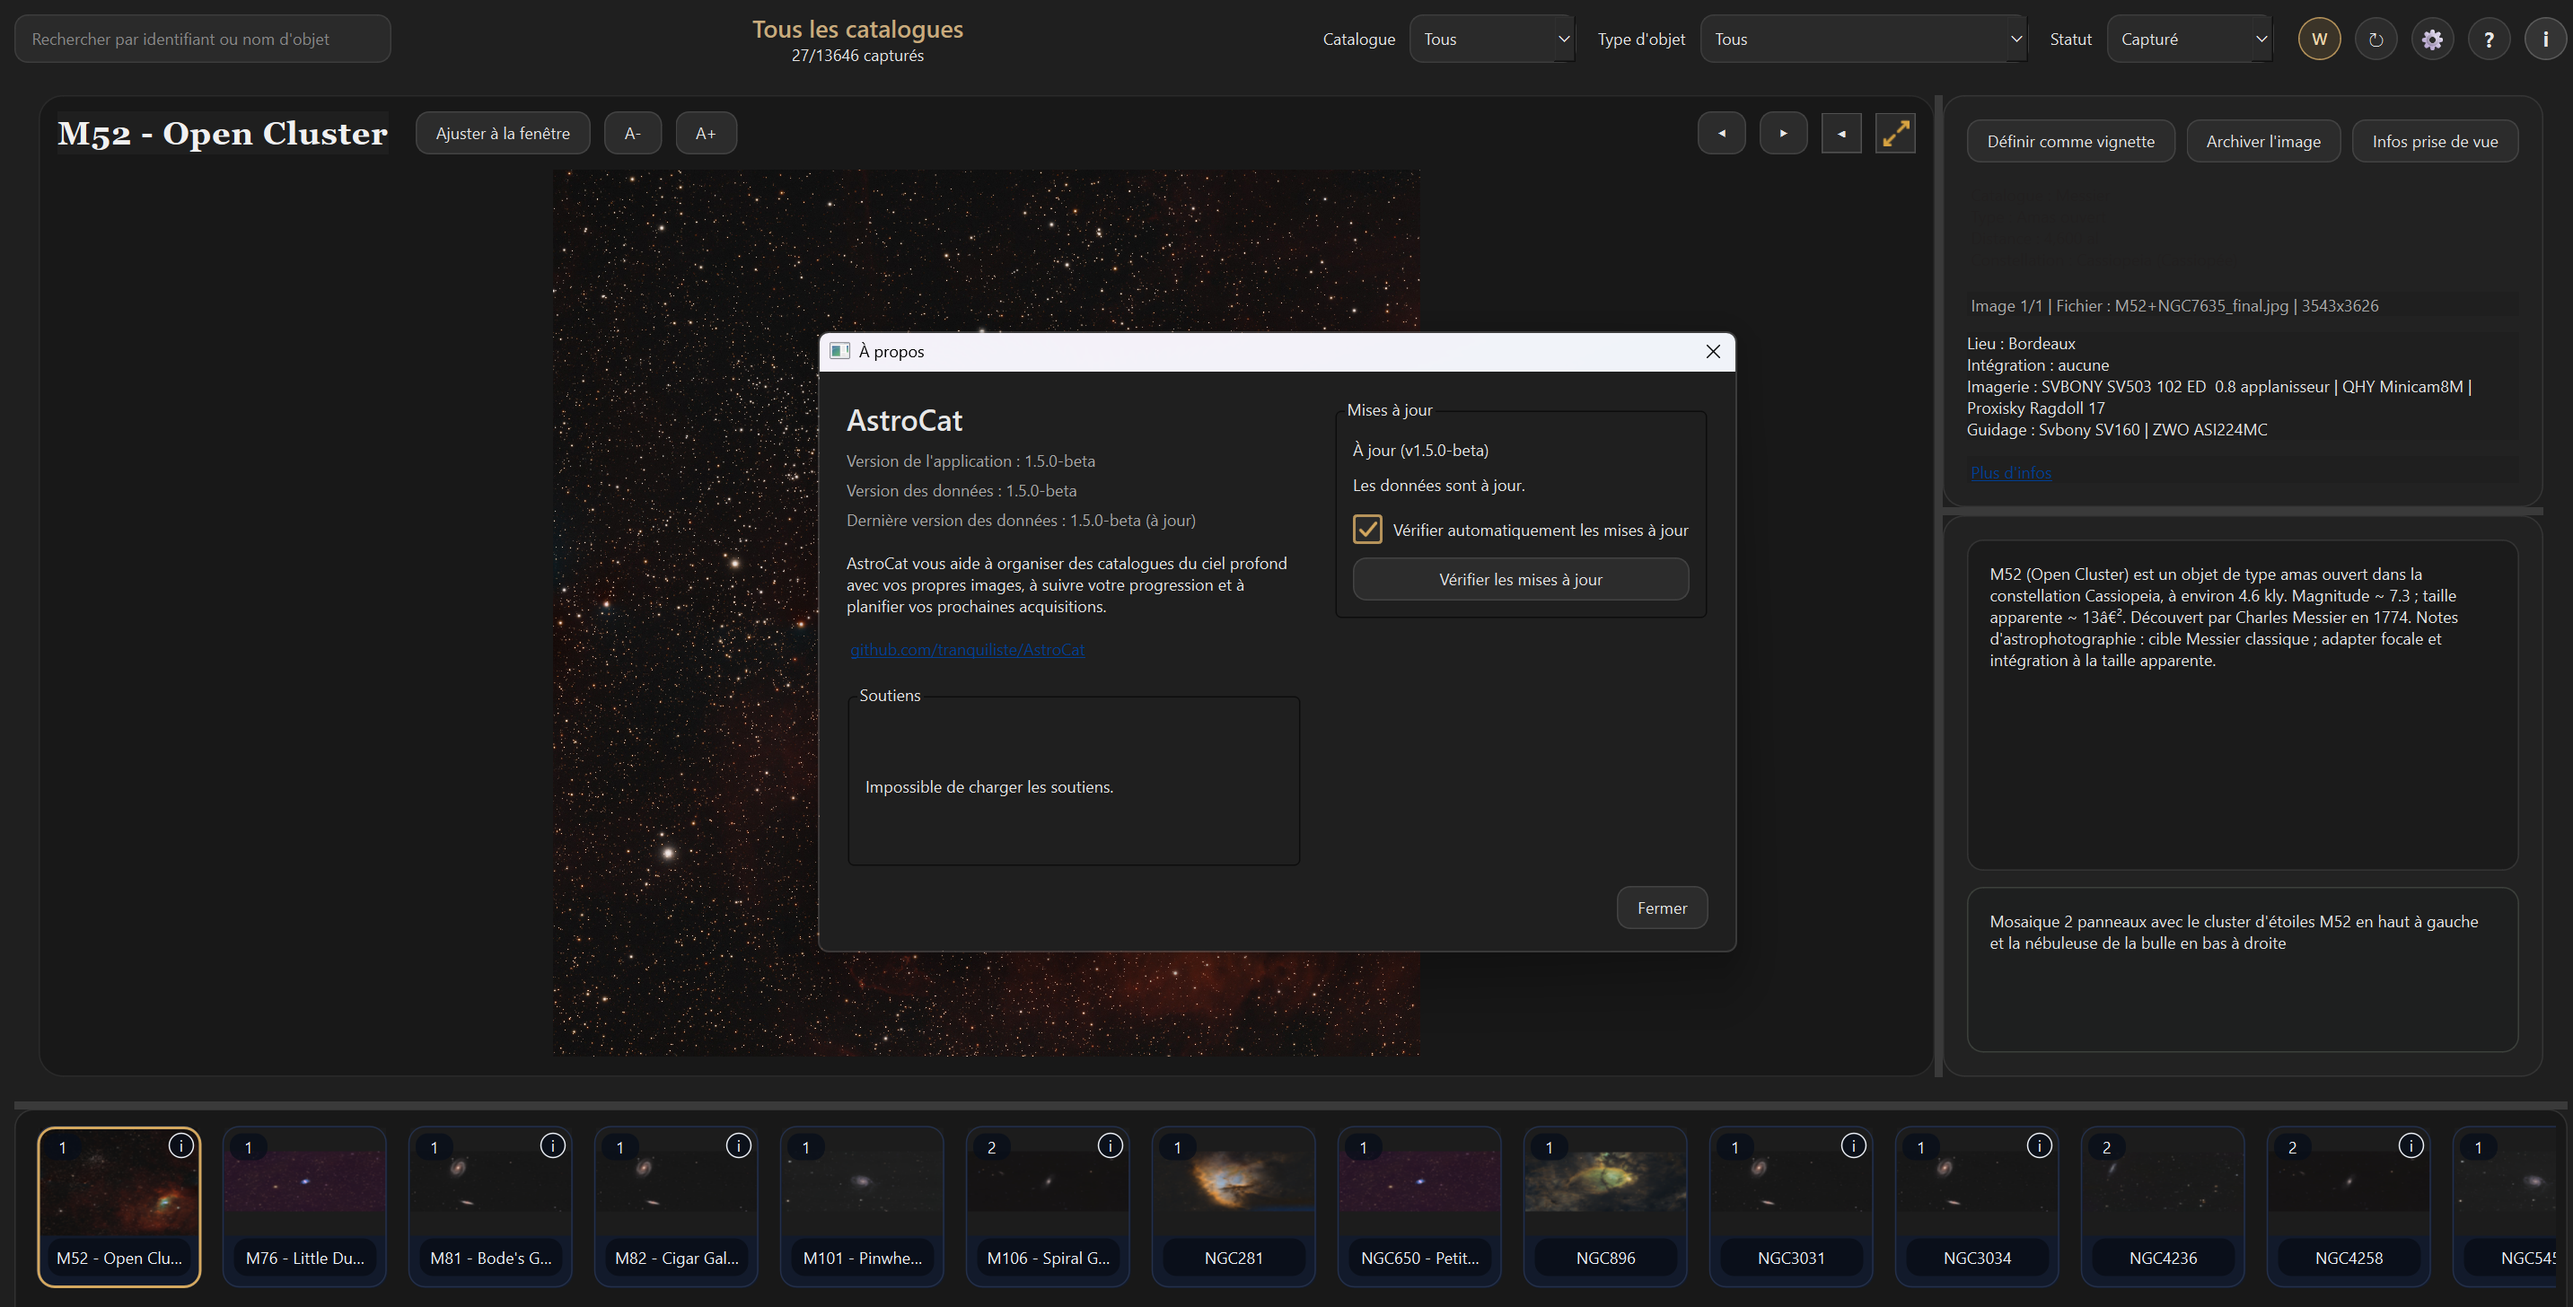
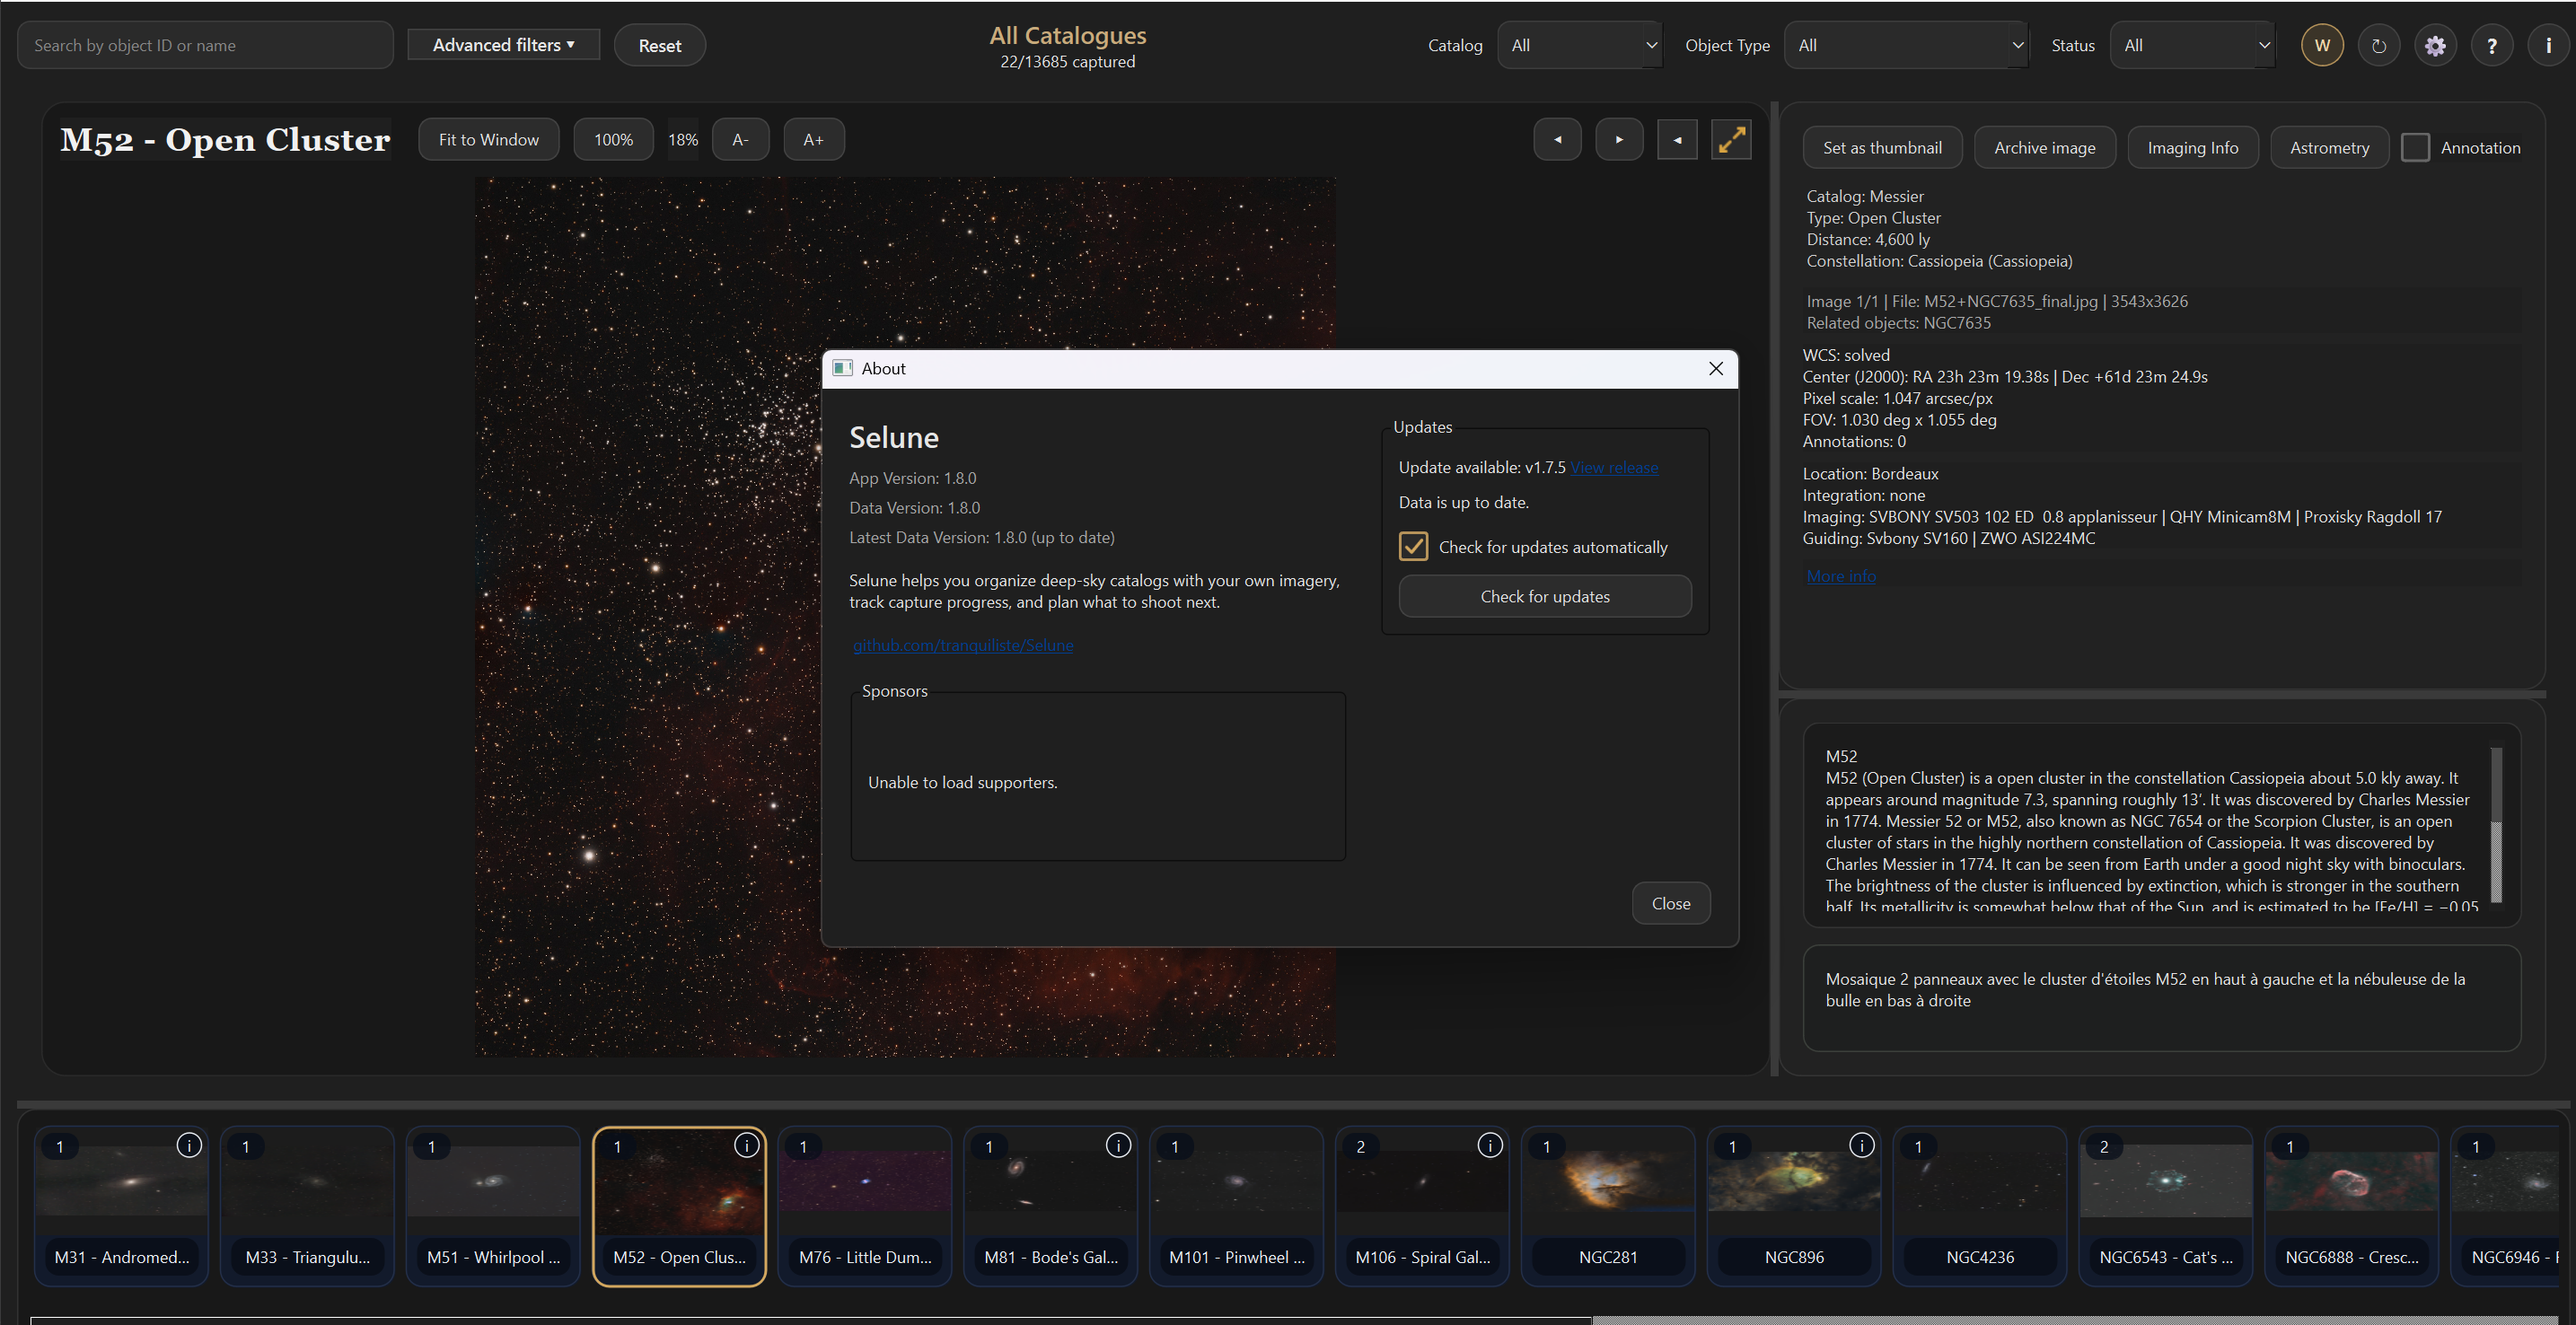
new screenshots

diff --git a/Selune/index.html b/Selune/index.html
@@ -31,6 +31,7 @@
       <img src="assets/Selune_pic_info.png" alt="Pic info - Selune">
       <img src="assets/Selune_bottom_strip_hidden.png" alt="Strip Photo Hidden - Selune">
       <img src="assets/Selune_pic_only.png" alt="Full Screen - Selune">
+      <img src="assets/Selune_annotation.png" alt="Full Screen - Selune">
     </div>
 
   </div>
@@ -43,6 +44,7 @@
       <li>Updated interface with bottom photo strip </li>
       <li>Notes saved in a database (no more JSON) </li>
       <li>Added detailed information: exposures, setup, lunar phase… </li>
+      <li>Astap based plate solving and annotation</li>
     </ul>
   </div>
 
